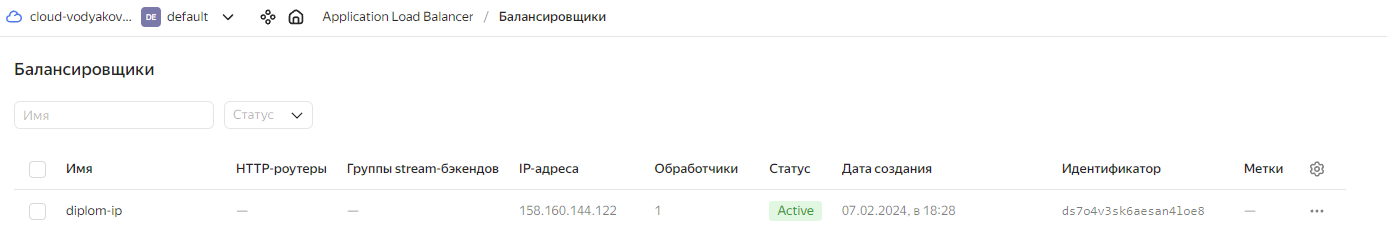
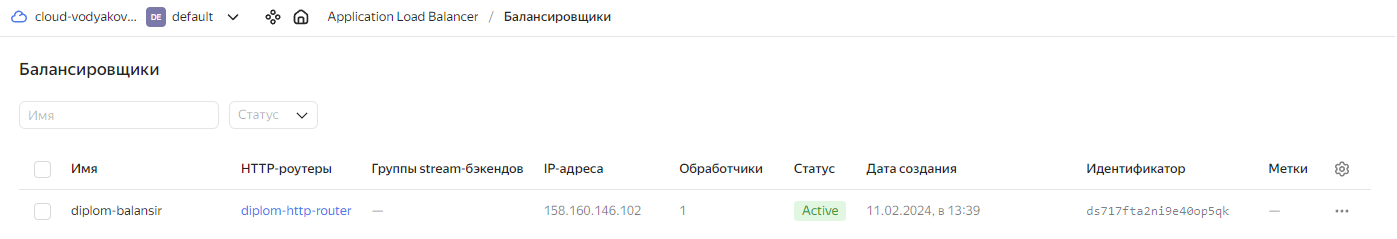
update110224

diff --git a/diplom/README.md b/diplom/README.md
@@ -1036,39 +1036,6 @@ deprecation_warnings=False
 
 ```bash
 ---
-- name: Install Docker and Utils
-  hosts: external
-  become: true
-  tasks:
-
-    - name: Docker INSTALL | Del sourcelists docker
-      file:
-        path: "{{ item }}"
-        state: absent
-      with_items:
-        - /etc/apt/sources.list.d/docker.list
-      ignore_errors: yes
-
-    - name: Docker INSTALL | Add Docker GPG key
-      apt_key: url=https://download.docker.com/linux/ubuntu/gpg
-
-    - name: Docker INSTALL | Add Docker APT repository
-      apt_repository:
-        repo: deb [arch=amd64] https://download.docker.com/linux/ubuntu {{ansible_distribution_release}} stable
-      ignore_errors: yes
-      
-    - name: Install Docker and Utils | Install utils
-      ansible.builtin.apt:
-        name:
-          - curl
-          - git
-          - vim
-          - wget
-          - apt-transport-https
-          - gpg
-          - bash-completion
-        state: present
-
 - name: Prepare to install Kubernetes
   become: true
   hosts: external
@@ -1117,7 +1084,6 @@ deprecation_warnings=False
         - name: net.bridge.bridge-nf-call-ip6tables
           value: 1
 
-
     - name: Prepare to install Kubernetes | Exec commands
       ansible.builtin.command: "{{ item }}"
       with_items:
@@ -1127,6 +1093,16 @@ deprecation_warnings=False
         - swapoff -a
       register: result
       changed_when: result.rc != 0
+
+    - name: Stop UFW service
+      systemd:
+        name: ufw
+        state: stopped
+        enabled: no
+
+    - name: Mask firewalld service
+      shell:
+        cmd: systemctl mask firewalld
 
 - name: Install Kubernetes
   become: true
@@ -1472,7 +1448,6 @@ c6c9a973eaf4   vodyakovdenis/diplom-app:v1.0   "/docker-entrypoint.…"   9 seco
 <details><summary>install helm</summary>
 
 * [оф дока](https://helm.sh/docs/intro/install/)
-* [Установка Prometheus в кластер с помощью Helm](https://selectel.ru/blog/tutorials/monitoring-in-k8s-with-prometheus/)
 
 ```bash
 $ curl -fsSL -o get_helm.sh https://raw.githubusercontent.com/helm/helm/main/scripts/get-helm-3
@@ -1544,7 +1519,75 @@ kubectl apply -f externalIP.yaml
 
 [externalIP.yaml](file/ingress-control/externalIP.yaml)
 
+![img6](img/img6.png)
+
+Документация по созданию [load_balancer](https://cloud.yandex.ru/ru/docs/application-load-balancer/quickstart)
+
 </details>
+
+<details><summary>* Используем metallb (если установка в локальной сети)</summary>
+
+Для начала необходимо проверить что включен режим IPVS
+
+```bash
+KUBE_EDITOR="nano" kubectl edit configmap -n kube-system kube-proxy
+```
+
+Установить значения:
+
+```bash
+apiVersion: kubeproxy.config.k8s.io/v1alpha1
+kind: KubeProxyConfiguration
+mode: "ipvs"
+ipvs:
+  strictARP: true
+```
+
+Устанавливаем metallb
+
+```bash
+kubectl create namespace metallb-system
+helm repo add metallb https://metallb.github.io/metallb
+helm install metallb metallb/metallb -n metallb-system
+kubectl apply -f metallb-ip.yaml
+```
+
+<details><summary>metallb-ip.yaml</summary>
+
+```bash
+apiVersion: metallb.io/v1beta1
+kind: IPAddressPool
+metadata:
+  name: default
+  namespace: metallb-system
+spec:
+  addresses:
+  - 10.10.3.100-10.10.3.105
+
+kind: L2Advertisement
+metadata:
+  name: default
+  namespace: metallb-system
+spec:
+  ipAddressPools:
+  - default
+  interfaces:
+  - eth0
+  - eth1
+```
+
+</details>
+
+**Вывод на локальном кластере:**
+
+```bash
+root@k8s-node1:/home/admlocal# kubectl -n ingress-nginx get svc
+NAME                                 TYPE           CLUSTER-IP       EXTERNAL-IP   PORT(S)                      AGE
+ingress-nginx-controller             LoadBalancer   10.245.227.235   10.10.3.100   80:32360/TCP,443:32144/TCP   51m
+ingress-nginx-controller-admission   ClusterIP      10.245.253.213   <none>        443/TCP                      51m
+```
+
+![img7](img/img7.png)
 
 </details>
 
@@ -1554,19 +1597,40 @@ kubectl apply -f externalIP.yaml
 helm repo add prometheus-community https://prometheus-community.github.io/helm-charts
 helm repo update
 kubectl create namespace monitoring
-helm install kube-prom-stack prometheus-community/kube-prometheus-stack -n monitoring -f values.yaml
+helm install monitoring prometheus-community/kube-prometheus-stack -n monitoring -f values.yaml
 ```
 
 [values.yaml](file/monitoring/values.yaml)
 
 
-</details>
+```bash
+kubectl apply -f ingress.yaml
+```
 
-Открываем доступ к prometeus:
+[ingress.yaml](file/monitoring/ingress.yaml)
 
 ```bash
-
+root@k8s-node1:/home/ubuntu/monitoring# kubectl -n monitoring get ingress
+NAME                 CLASS   HOSTS                ADDRESS   PORTS   AGE
+kube-state-ingress   nginx   grafana.diplom.com             80      10s
 ```
+
+
+<details><summary>При ошибке : failed calling webhook</summary>
+
+```bash
+Error from server (InternalError): error when creating "ingress.yaml": Internal error occurred: failed calling webhook "validate.nginx.ingress.kubernetes.io": failed to call webhook: Post "https://ingress-nginx-controller-admission.ingress-nginx.svc:443/networking/v1/ingresses?timeout=10s": dial tcp 10.245.55.76:443: i/o timeout
+```
+
+Выполнить:
+
+```bash
+kubectl delete -A ValidatingWebhookConfiguration ingress-nginx-admission
+```
+
+</details>
+
+</details>
 
 </details>
 
@@ -1588,12 +1652,12 @@ helm install kube-prom-stack prometheus-community/kube-prometheus-stack -n monit
 
 https://siebjee.nl/posts/ingress-nginx-context-deadline-exceeded/   
 https://cloud.yandex.ru/ru/docs/managed-kubernetes/tutorials/prometheus-grafana-monitoring   
+https://cloud.yandex.ru/ru/docs/application-load-balancer/quickstart   
 https://docs.nginx.com/nginx-ingress-controller/installation/installing-nic/installation-with-helm/   
 https://selectel.ru/blog/tutorials/monitoring-in-k8s-with-prometheus/   
 https://ru.stackoverflow.com/questions/931025/%D0%9D%D0%B5-%D1%80%D0%B0%D0%B1%D0%BE%D1%82%D0%B0%D0%B5%D1%82-dns-kubernetes-%D0%B2%D0%BD%D1%83%D1%82%D1%80%D0%B8-%D0%BA%D0%BE%D0%BD%D1%82%D0%B5%D0%B9%D0%BD%D0%B5%D1%80%D0%BE%D0%B2
 https://kubernetes.io/ru/docs/reference/kubectl/cheatsheet/   
 https://helm.sh/ru/docs/intro/using_helm/   
 https://nixhub.ru/posts/k8s-cluster-access/   
-
 
 </details>
